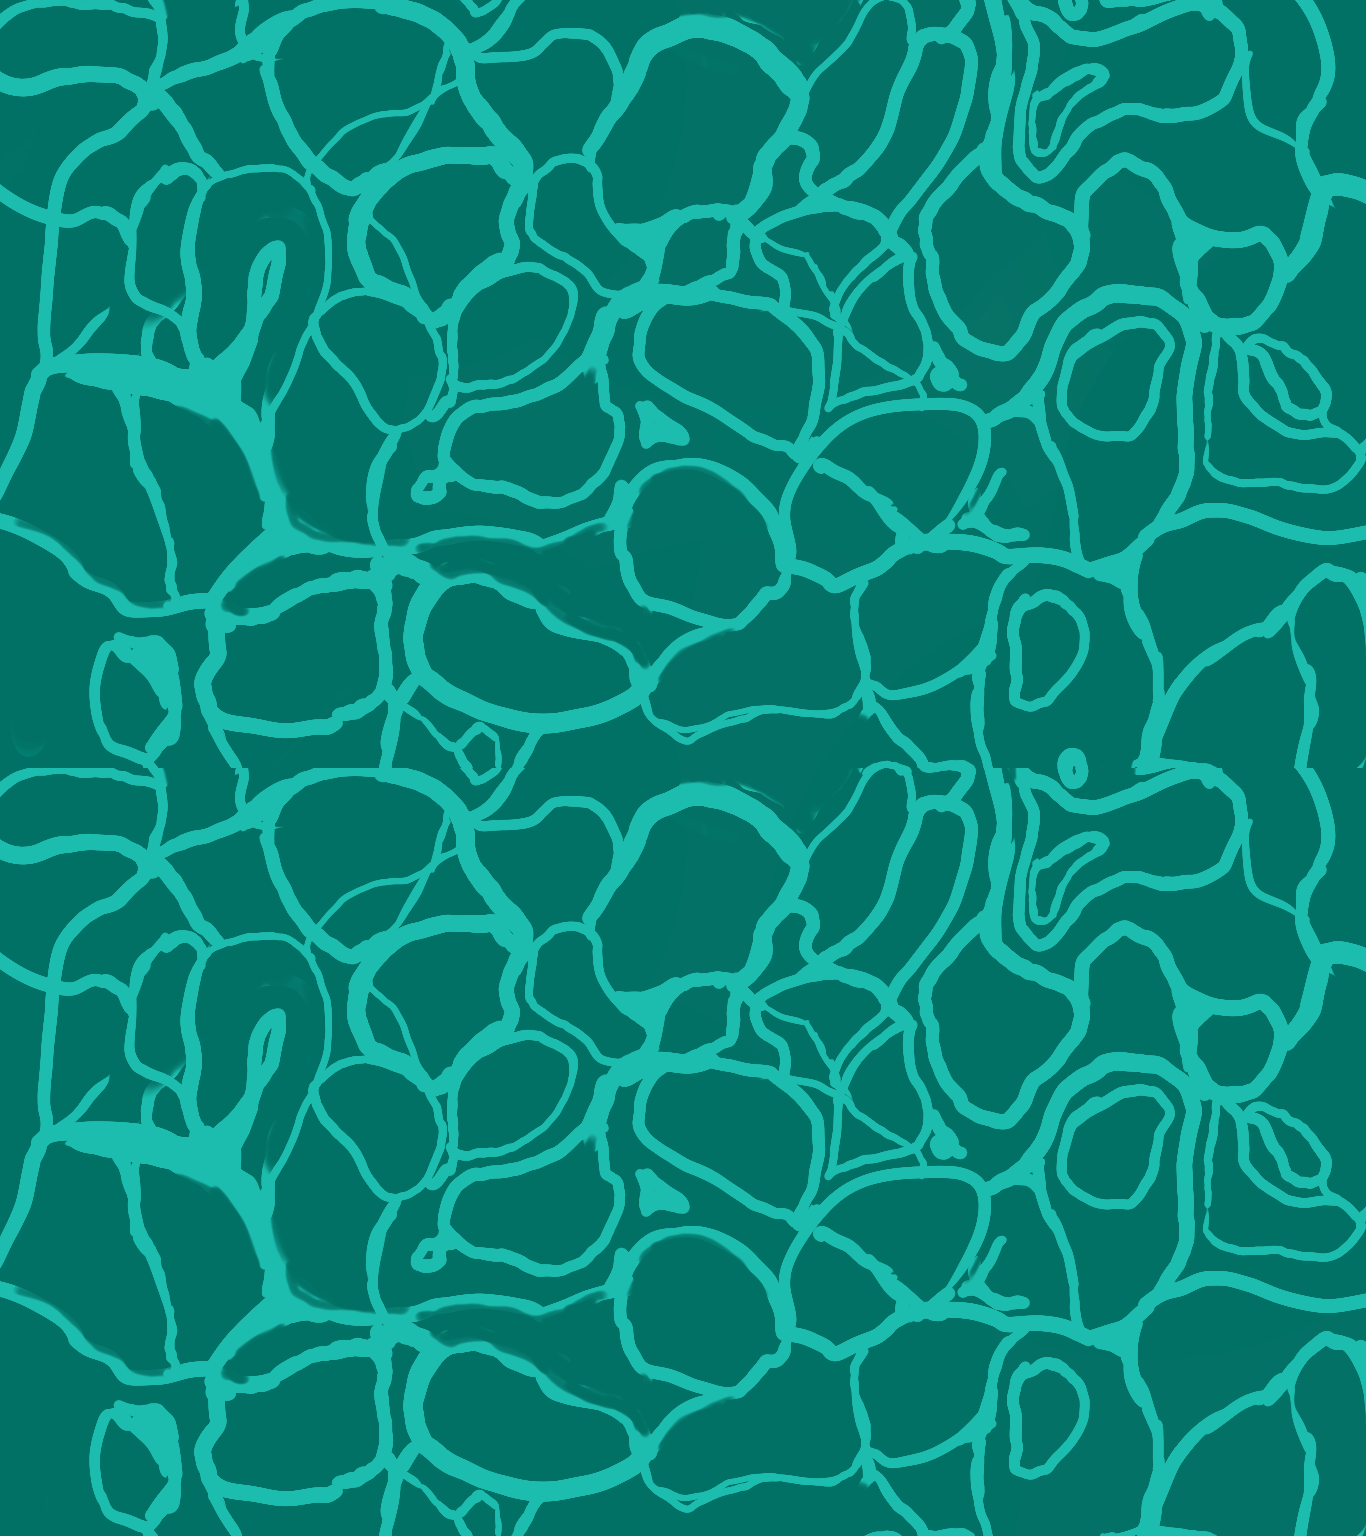
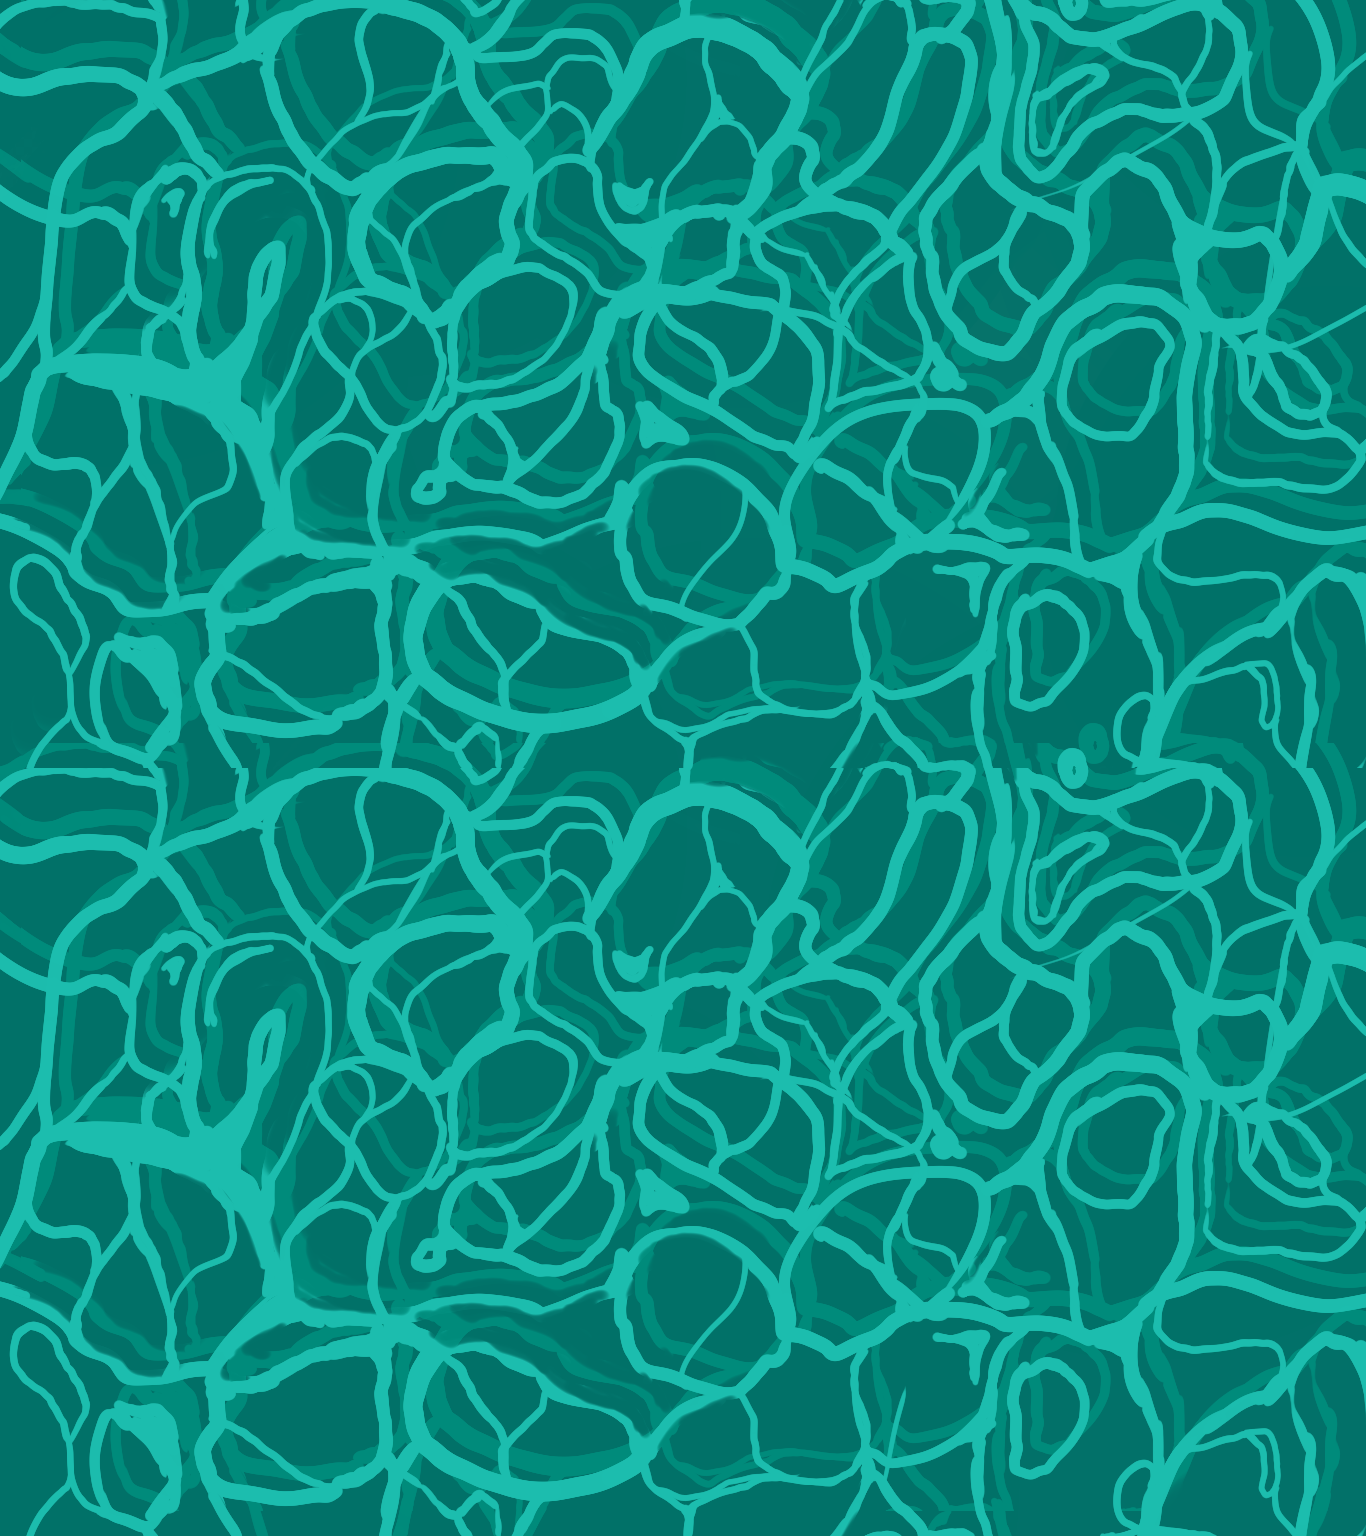
changed background

diff --git a/GXPEngine/MyGame.cs b/GXPEngine/MyGame.cs
@@ -39,15 +39,13 @@ public class MyGame : Game {
     public MyGame() : base(1366, 768, false)
 	{
 		targetFps = 60;
-        //TODO: implement Second background, immplement second fade.	
+        //TODO: implement Second background, second fade.	
 
-        //TODO: implement Start menu (discuss menu design)
+		//TODO: Better Start menu.
 
         //TODO: implement sprites and animations (requires Sprites)
 
         //TODO: implement powerups (Maybe? discuss powerups)
-
-        //TODO: implement jump move (maybe??)
 
         background = new Sprite("background.png", false, false);
         background.SetXY(0, -height);
